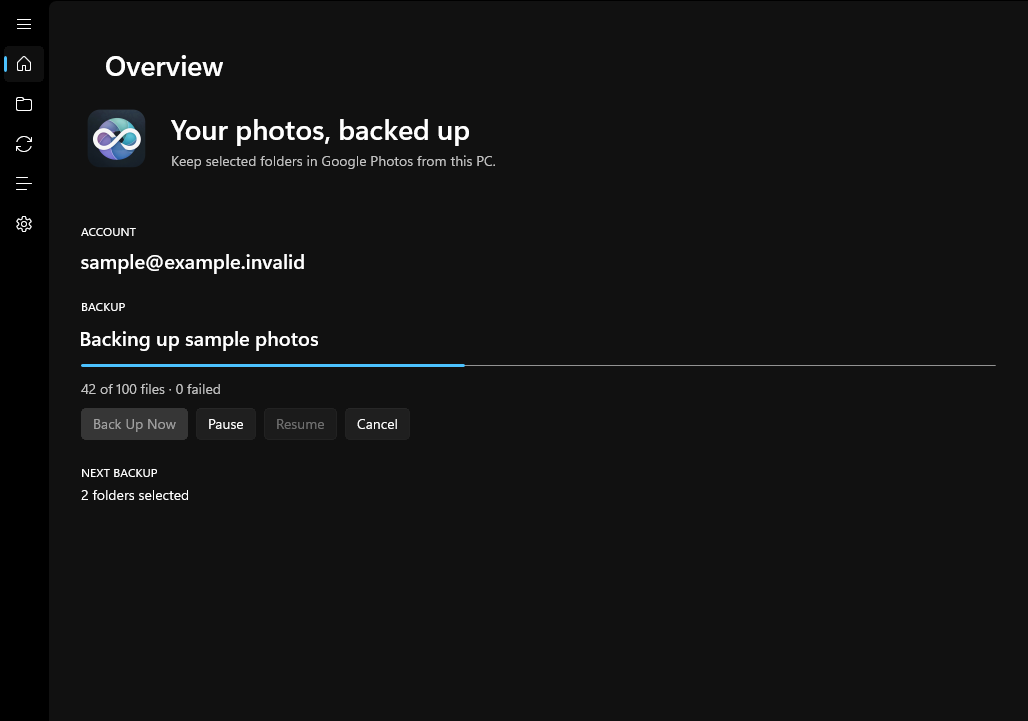
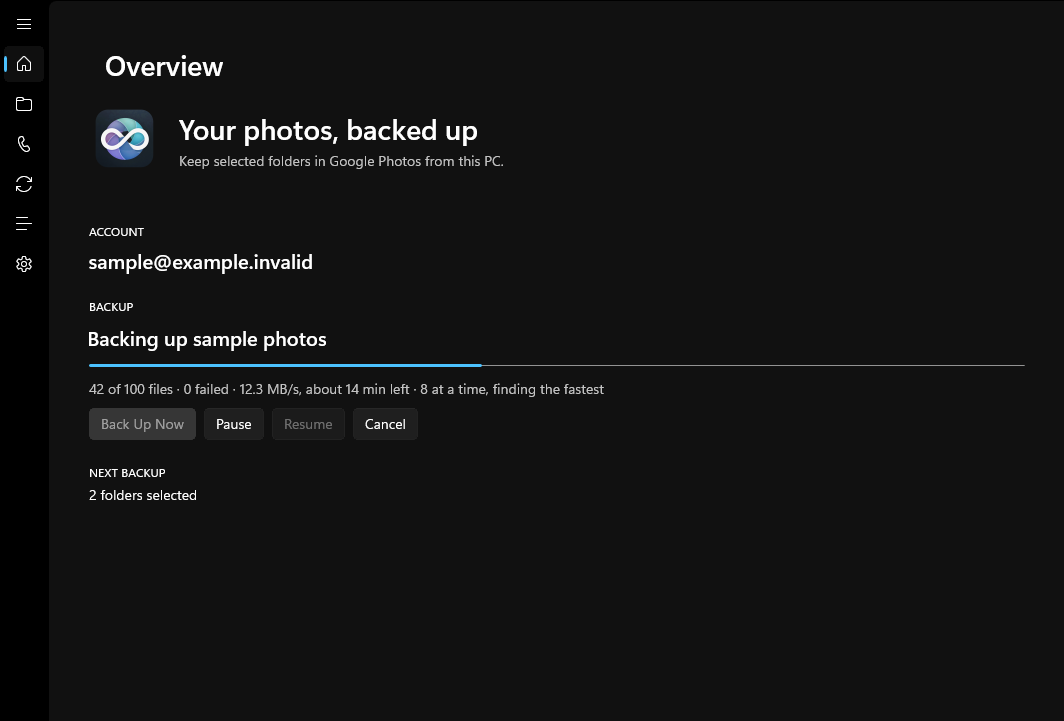
docs: Windows screenshots from the 0.6.4 build
Rendered by the 0.6.4 ARM64 build's smoke mode in a Windows 11 VM with
synthetic data; they show the 0.6 progress line with MB/s and uploads at
a time.

diff --git a/docs/SCREENSHOTS.md b/docs/SCREENSHOTS.md
@@ -98,3 +98,13 @@ key window like the others. The connected-device images of 2026-10-16 were blank
 the iCloud setup images still had the retired "Copies only" card. The made-up
 accounts moved from gmail.com to example.com. Images wider than 1400 px were
 downscaled with `sips --resampleWidth 1400`.
+
+## Windows refresh: 2026-11-06
+
+`windows-overview.png`, `windows-overview-dark.png`, `windows-navigation-collapsed.png`,
+`windows-connected-device-light.png` and `windows-connected-device-dark.png` were
+rendered by the 0.6.4 ARM64 build's `--smoke-test ... --screenshot` mode in a
+Windows 11 ARM64 Parallels VM, with synthetic data and Windows' default accent.
+They show the 0.6 progress line (MB/s, time left, uploads at a time). The smoke
+mode can capture a frame before WinUI's animations settle (#76), so check each
+image for half-drawn buttons before publishing; these were checked.
